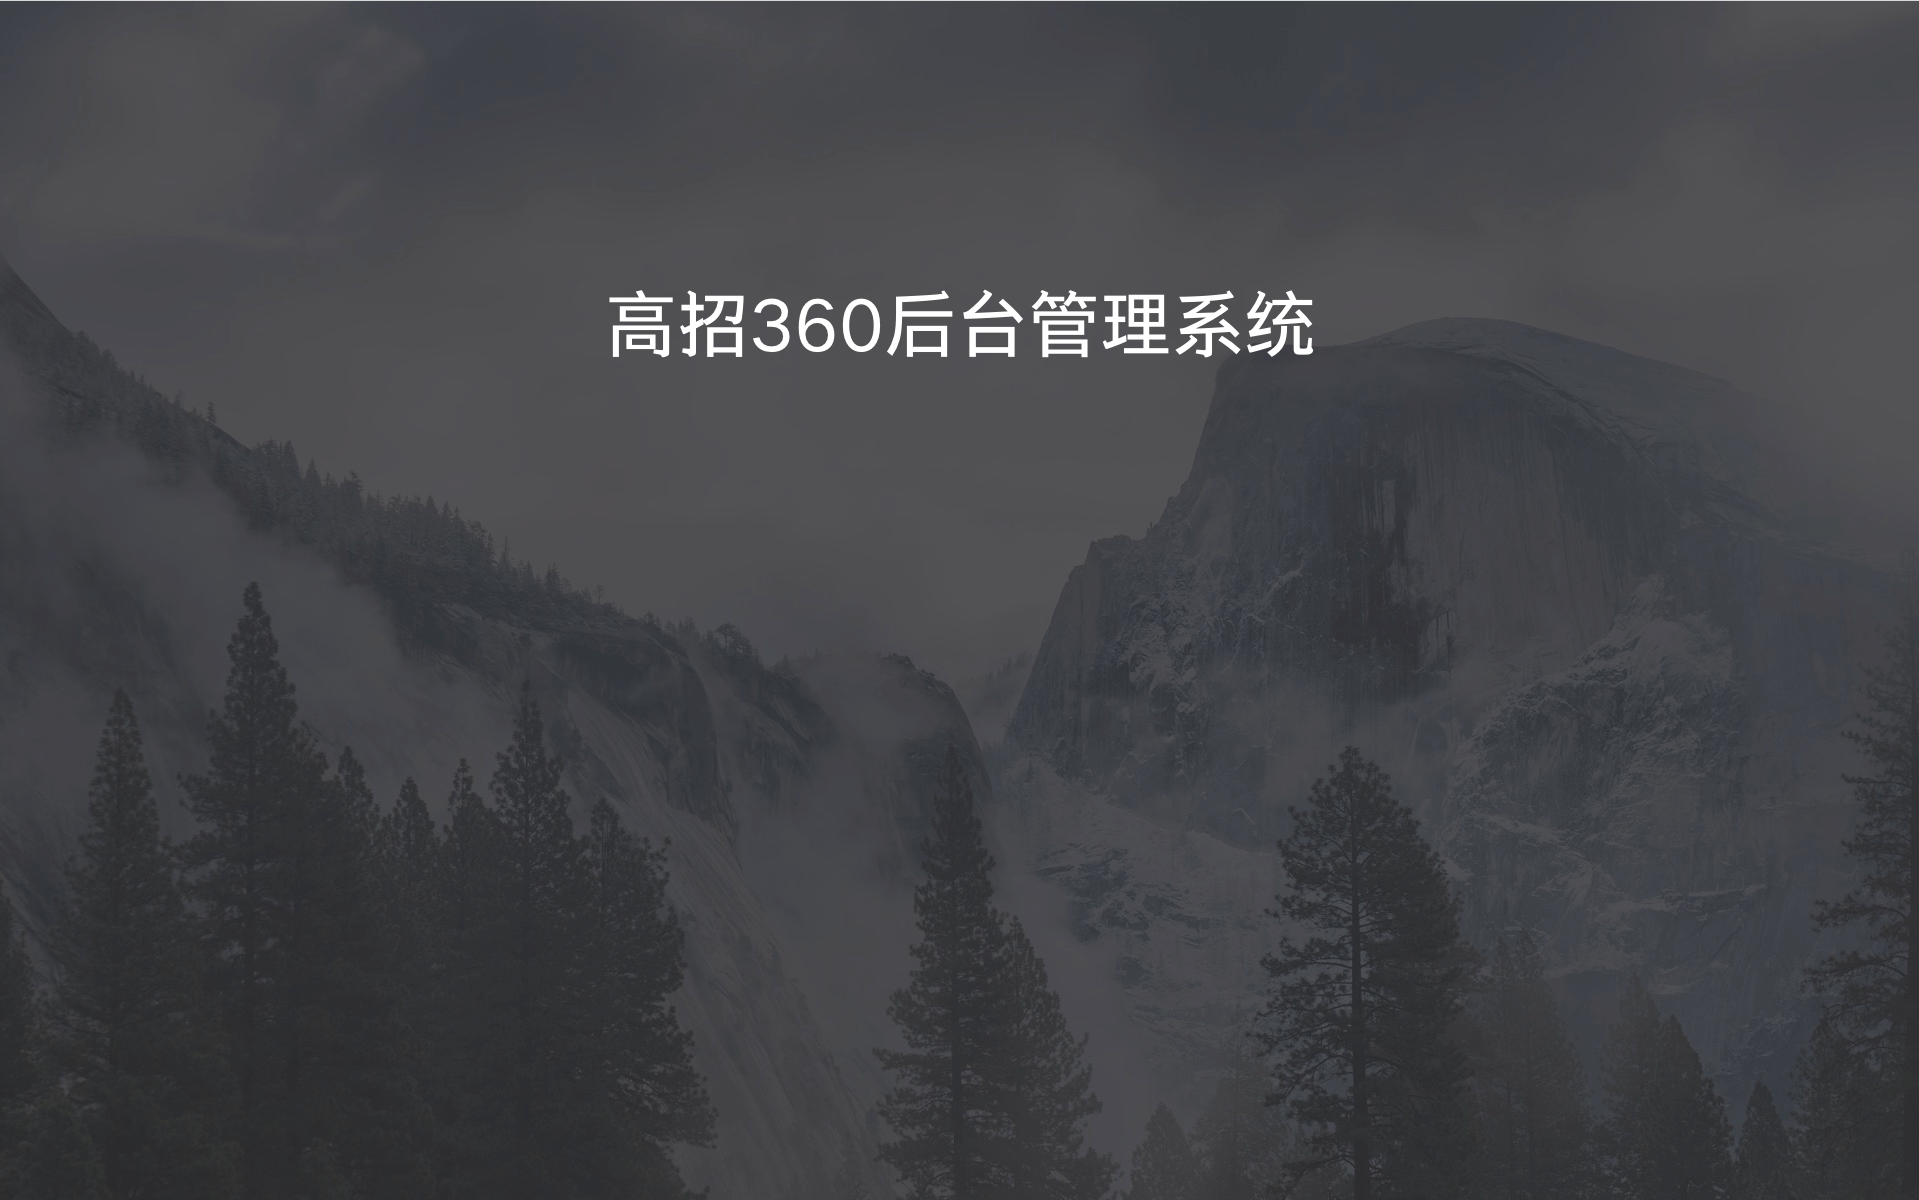
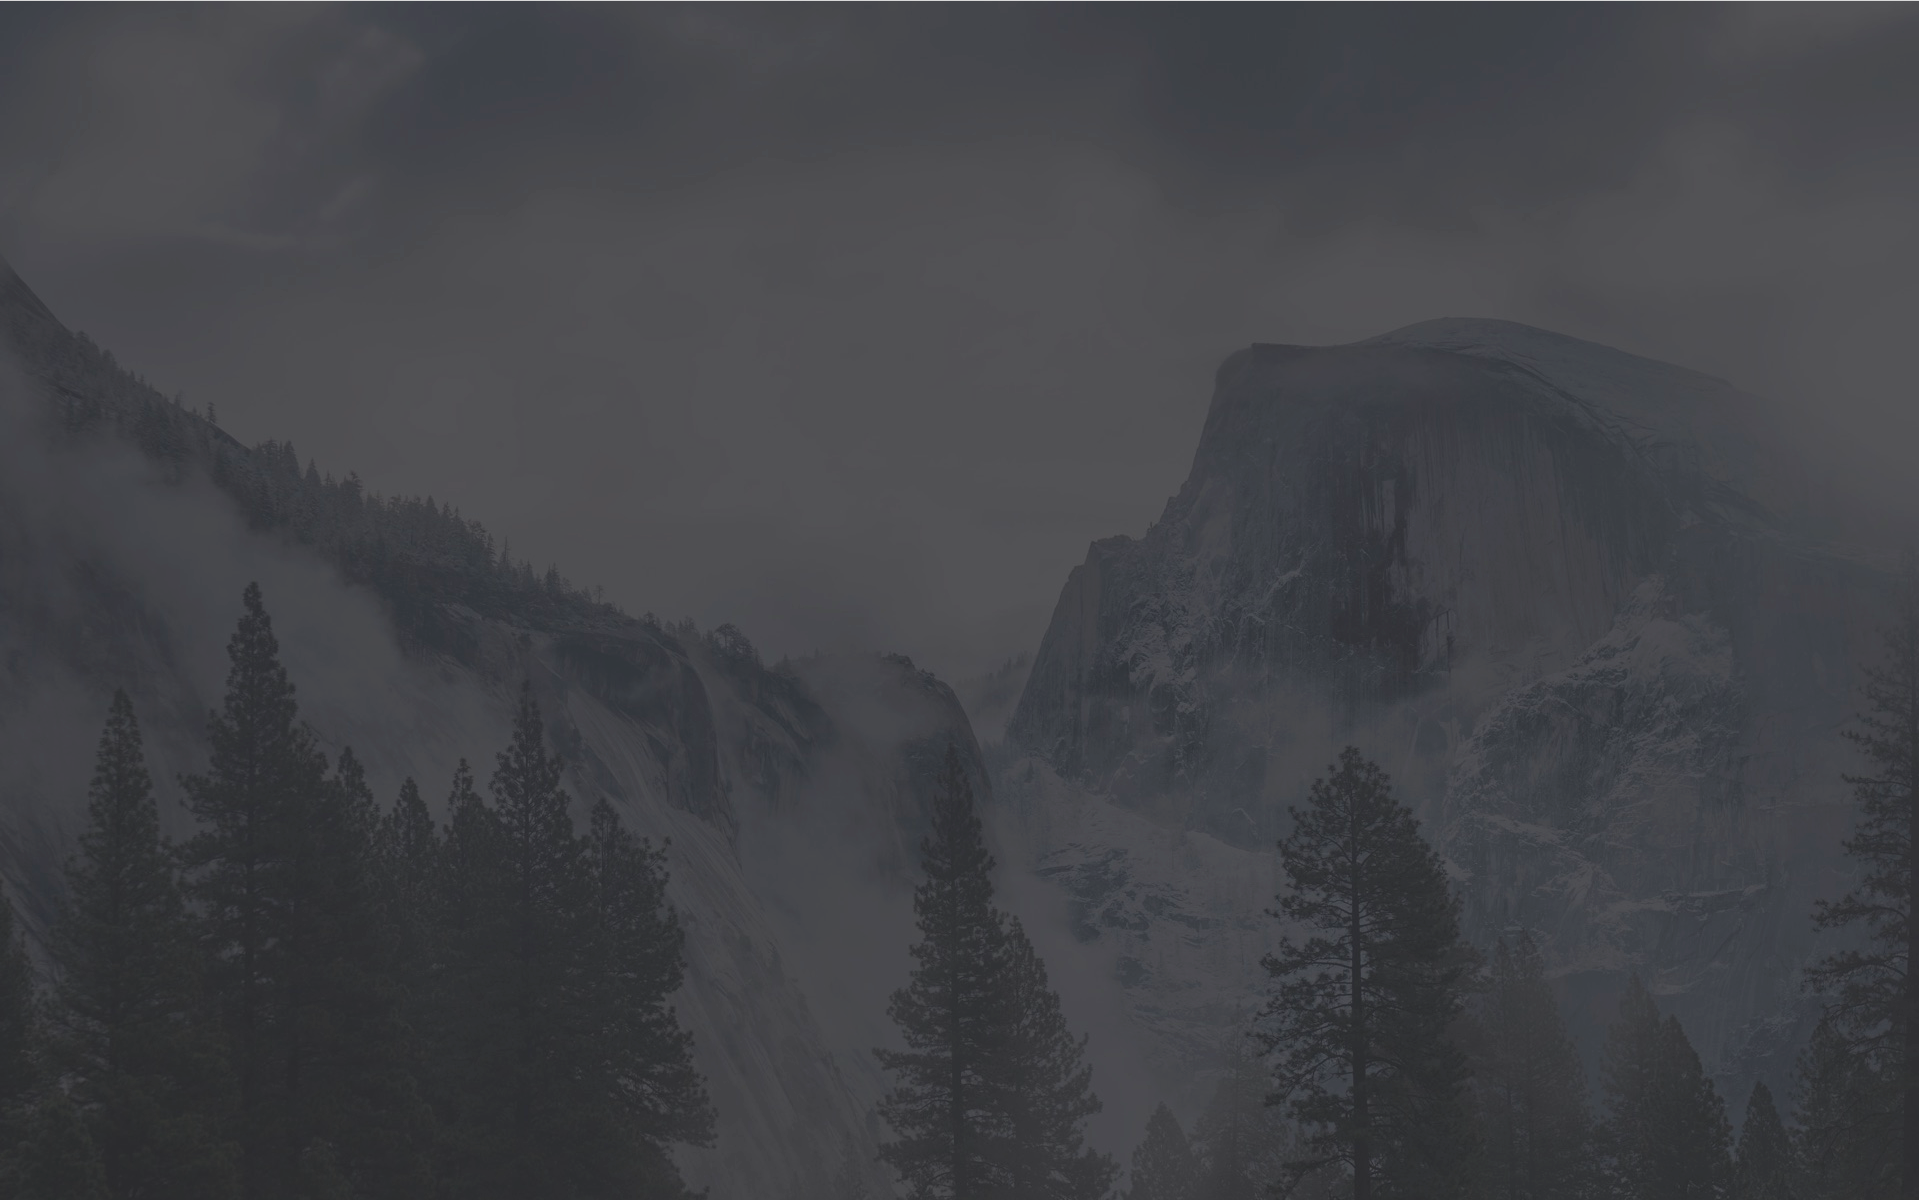
登录样式

Changed region(s): [[0.3075, 0.2467, 0.7071, 0.3083]]

diff --git a/src/system/views/login/login.vue b/src/system/views/login/login.vue
@@ -1,17 +1,23 @@
 <template>
 <div class="login-wrap">
+  <div class="ms-title">高招360后台管理系统</div>
   <div class="ms-login">
     <div class="ms-div" style="margin-top:60px" :class="{on:phoneFocus}">
       <div class="ms-label">账号</div>
       <div class="ms-input">
-        <input @focus="inputFocus(1)" @blur="inputBlur(1)" autocomplete="new-password" />
+        <input @focus="inputFocus(1)" @blur="inputBlur(1)" autocomplete="new-password" v-model="myData.phone" />
       </div>
     </div>
     <div class="ms-div" :class="{on:passwordFocus}">
       <div class="ms-label">密码</div>
       <div class="ms-input">
-        <input type="password" @focus="inputFocus(2)" @blur="inputBlur(2)" autocomplete="new-password" />
+        <input type="password" @focus="inputFocus(2)" @blur="inputBlur(2)" autocomplete="new-password" v-if="hidePwd" v-model="myData.password" />
+        <input @focus="inputFocus(2)" @blur="inputBlur(2)" autocomplete="new-password" v-else v-model="myData.password" />
       </div>
+      <div class="hide-pwd" @click="toHidePwd"></div>
+    </div>
+    <div class="remember" :class="{on:remember}" @click="rememberPwd">
+      <div>记住密码</div>
     </div>
     <div class="login-btn">登录</div>
   </div>
@@ -22,7 +28,13 @@ export default {
   data() {
     return {
       phoneFocus: false,
-      passwordFocus: false
+      passwordFocus: false,
+      hidePwd: true,
+      remember: false,
+      myData: {
+        phone: '',
+        password: ''
+      }
     }
   },
   methods: {
@@ -39,6 +51,12 @@ export default {
       } else {
         this.passwordFocus = false;
       }
+    },
+    toHidePwd() {
+      this.hidePwd = !this.hidePwd;
+    },
+    rememberPwd() {
+      this.remember = !this.remember;
     }
   }
 }

diff --git a/src/system/style/login.less b/src/system/style/login.less
@@ -9,11 +9,13 @@
 
   .ms-title {
     .position(a);
-    top: 52%;
+    top: 50%;
     .w(100%);
-    .marginT(-230px);
+    .marginT(-300px);
     .align(c);
-    .fontSize(32px);
+    .fontSize(72px);
+    .color(#fff);
+    letter-spacing: 5px;
   }
 
   .ms-login {
@@ -29,6 +31,7 @@
     border-radius: 10px;
 
     .ms-div {
+      .position(r);
       .flex;
       .fontSize(20px);
       .color(#fff);
@@ -62,7 +65,7 @@
       .line(60px);
       .w(340px);
       .align(c);
-      .marginAll(92px,auto,0,auto);
+      .marginAll(30px,auto,0,auto);
       background: rgba(255, 255, 255, 0.3);
       .fontSize(17px);
       .color(#fff);
@@ -72,5 +75,39 @@
         background: rgba(255, 255, 255, 0.2);
       }
     }
+    .remember{
+      .marginT(40px);
+      .h(22px);
+      .line(22px);
+      .fontSize(16px);
+      div{
+        background: url("../assets/images/登录页-保持登录-2.png") no-repeat center left;
+        background-size: 20px;
+        .paddingL(35px);
+        margin: 0 auto;
+        .w(100px);
+        .align(c);
+        .color(#fff);
+        cursor: pointer;
+        user-select: none;
+      }
+      &.on{
+        div{
+          background: url("../assets/images/登录页面-保持登录.png") no-repeat center left;
+          background-size: 20px;
+        }
+      }
+    }
+    .hide-pwd {
+      .position(a);
+      .h(19px);
+      .w(25px);
+      top:26px;
+      right: 50px;
+      background: url("../assets/images/登录页-隐藏密码.png") no-repeat;
+      background-size: 25px;
+      cursor: pointer;
+    }
   }
+
 }
